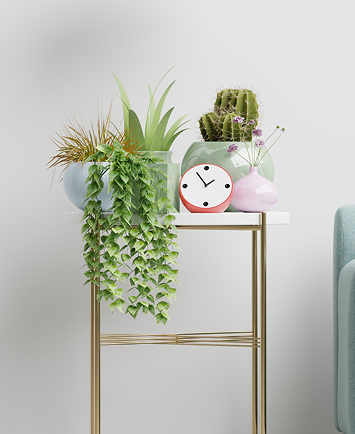
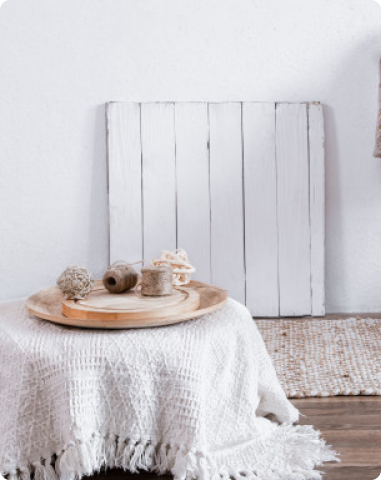
responsive added and new components included

diff --git a/src/components/Collection.jsx b/src/components/Collection.jsx
@@ -1,24 +1,45 @@
-const Collection = () => {
-  const cats = [
-    { name: "Dining", img: "/dining.png" },
-    { name: "Living", img: "/living.png" },
-    { name: "Bedroom", img: "/bedroom.png" },
-  ];
+import React from 'react';
 
+const Collection = () => {
   return (
-    <section className="py-20 max-w-[1260px] mx-auto px-5">
-      <div className="text-center mb-12">
-        <h2 className="text-3xl font-bold text-[#333]">Browse The Range</h2>
-        <p className="text-gray-500">Lorem ipsum dolor sit amet, consectetur adipiscing elit.</p>
-      </div>
-      <div className="grid grid-cols-1 md:grid-cols-3 gap-8">
-        {cats.map((cat) => (
-          <div key={cat.name} className="text-center group cursor-pointer">
-            <div className="overflow-hidden rounded-[60px]">
-              <img src={cat.img} alt={cat.name} className="w-full h-[450px] object-cover group-hover:scale-105 transition-transform duration-500" />
-            </div>
+    <section className="py-20 bg-white">
+      <div className="max-w-[1260px] mx-auto px-5">
+        <div className="text-center mb-16">
+          <h2 className="text-4xl font-bold text-[#333] mb-4">Inspiration Collection</h2>
+          <p className="text-gray-500 max-w-2xl mx-auto">
+            Lorem ipsum dolor sit amet, consectetur adipiscing elit.
+          </p>
+        </div>
+
+        <div className="grid grid-cols-1 md:grid-cols-3 gap-8 items-center">
+          
+          <div className="h-[500px] overflow-hidden rounded-tl-[100px]">
+            <img 
+              src="/collection1.png" 
+              alt="Inspiration 1" 
+              className="w-full h-full object-cover hover:scale-105 transition-transform duration-700"
+            />
           </div>
-        ))}
+
+          {/* O'rtadagi rasm - oddiy to'rtburchak (yoki hamma burchagi bir xil) */}
+          <div className="h-[600px] overflow-hidden rounded-xl shadow-lg">
+            <img 
+              src="/collection2.png" 
+              alt="Inspiration 2" 
+              className="w-full h-full object-cover hover:scale-105 transition-transform duration-700"
+            />
+          </div>
+
+          {/* O'ngdagi rasm - pastki o'ng burchagi aylana */}
+          <div className="h-[500px] overflow-hidden rounded-br-[100px]">
+            <img 
+              src="/collection3.png" 
+              alt="Inspiration 3" 
+              className="w-full h-full object-cover hover:scale-105 transition-transform duration-700"
+            />
+          </div>
+
+        </div>
       </div>
     </section>
   );

diff --git a/src/components/Footer.jsx b/src/components/Footer.jsx
@@ -1,17 +1,15 @@
 const Footer = () => {
   return (
     <footer className="bg-white">
-      {/* Newsletter */}
-      <div className="bg-[#F0F2F5] py-20 text-center">
+      <div className="bg-[#F2F5FF] py-20 text-center">
         <h2 className="text-3xl font-bold mb-4">Join Our Mailing List</h2>
-        <p className="text-gray-500 mb-8">Sign up to receive inspiration, product updates, and special offers.</p>
+        <p className="text-gray-500 mb-8">Sign up to receive inspiration, product updates,<br /> and special offers from our team.</p>
         <div className="max-w-md mx-auto flex overflow-hidden rounded-lg shadow-md">
           <input type="email" placeholder="example@gmail.com" className="flex-1 p-4 outline-none border-none" />
           <button className="bg-[#05445E] text-white px-8 font-bold">Submit</button>
         </div>
       </div>
 
-      {/* Main Footer */}
       <div className="bg-[#032d3f] text-white py-20 px-5">
         <div className="max-w-[1260px] mx-auto flex flex-col md:flex-row gap-20">
           <div className="flex-1">
@@ -23,7 +21,7 @@ const Footer = () => {
             <h3 className="text-xl font-bold mb-8">Instagram Shop</h3>
             <div className="grid grid-cols-4 gap-4">
               {[1, 2, 3, 4].map(i => (
-                <img key={i} src={`/insta${i}.jpg`} className="w-full aspect-square object-cover rounded-md hover:opacity-75 cursor-pointer transition-all" />
+                <img key={i} src={`/insta${i}.png`} className="w-full aspect-square object-cover rounded-md hover:opacity-75 cursor-pointer transition-all" />
               ))}
             </div>
           </div>

diff --git a/src/components/Rooms.jsx b/src/components/Rooms.jsx
@@ -1,0 +1,27 @@
+const Rooms = () => {
+  const cats = [
+    { name: "Dining", img: "/dining.png" },
+    { name: "Living", img: "/living.png" },
+    { name: "Bedroom", img: "/bedroom.png" },
+  ];
+
+  return (
+    <section className="py-20 max-w-[1260px] mx-auto px-5">
+      <div className="text-center mb-12">
+        <h2 className="text-3xl font-bold text-[#333]">Browse The Range</h2>
+        <p className="text-gray-500">Lorem ipsum dolor sit amet, consectetur adipiscing elit.</p>
+      </div>
+      <div className="grid grid-cols-1 md:grid-cols-3 gap-8">
+        {cats.map((cat) => (
+          <div key={cat.name} className="text-center group cursor-pointer">
+            <div className="overflow-hidden rounded-[60px]">
+              <img src={cat.img} alt={cat.name} className="w-full h-[450px] object-cover group-hover:scale-105 transition-transform duration-500" />
+            </div>
+          </div>
+        ))}
+      </div>
+    </section>
+  );
+};
+
+export default Rooms;

diff --git a/src/App.jsx b/src/App.jsx
@@ -2,9 +2,11 @@ import React from 'react';
 import Navbar from './components/Navbar';
 import Hero from './components/Hero';
 import Features from './components/Features';
-import Collection from './components/Collection';
+import Rooms from './components/Rooms';
 import Space from './components/Space';
 import Footer from './components/Footer';
+import Works from './components/Works';
+import Collection from './components/Collection';
 
 function App() {
   return (
@@ -14,6 +16,8 @@ function App() {
       <Features />
       <Collection />
       <Space />
+      <Rooms />
+      <Works />
       <Footer />
     </main>
   );

diff --git a/src/components/Works.jsx b/src/components/Works.jsx
@@ -1,8 +1,8 @@
-const Steps = () => {
+const Works = () => {
   const steps = [
-    { n: "1.", title: "Purchase Securely", img: "/step1.jpg" },
-    { n: "2.", title: "Ships From Warehouse", img: "/step2.jpg" },
-    { n: "3.", title: "Style Your Room", img: "/step3.jpg" },
+    { n: "1", title: "Purchase Securely", img: "/step1.png" },
+    { n: "2", title: "Ships From Warehouse", img: "/step2.png" },
+    { n: "3", title: "Style Your Room", img: "/step3.png" },
   ];
 
   return (

diff --git a/src/components/Hero.jsx b/src/components/Hero.jsx
@@ -26,7 +26,7 @@ const Hero = () => {
                         Ut elit tellus, luctus nec ullamcorper mattis.
                     </p>
 
-                    <button className="bg-[#05445E] text-white px-10 py-4 font-bold rounded-md
+                    <button className="bg-[#05445E] text-white px-10 py-4 font-bold rounded-[50px]
             hover:bg-opacity-90 transition-all uppercase text-sm cursor-pointer">
                         Buy Now
                     </button>
